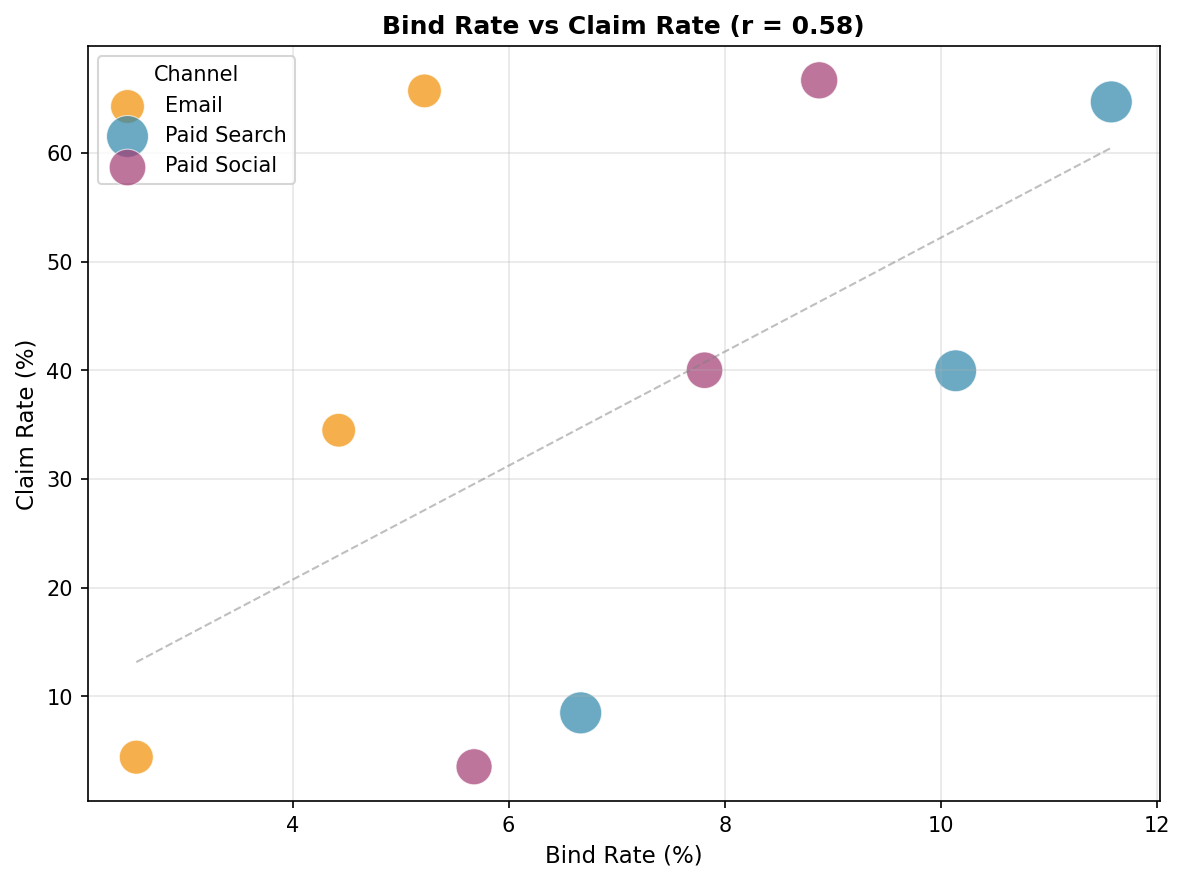
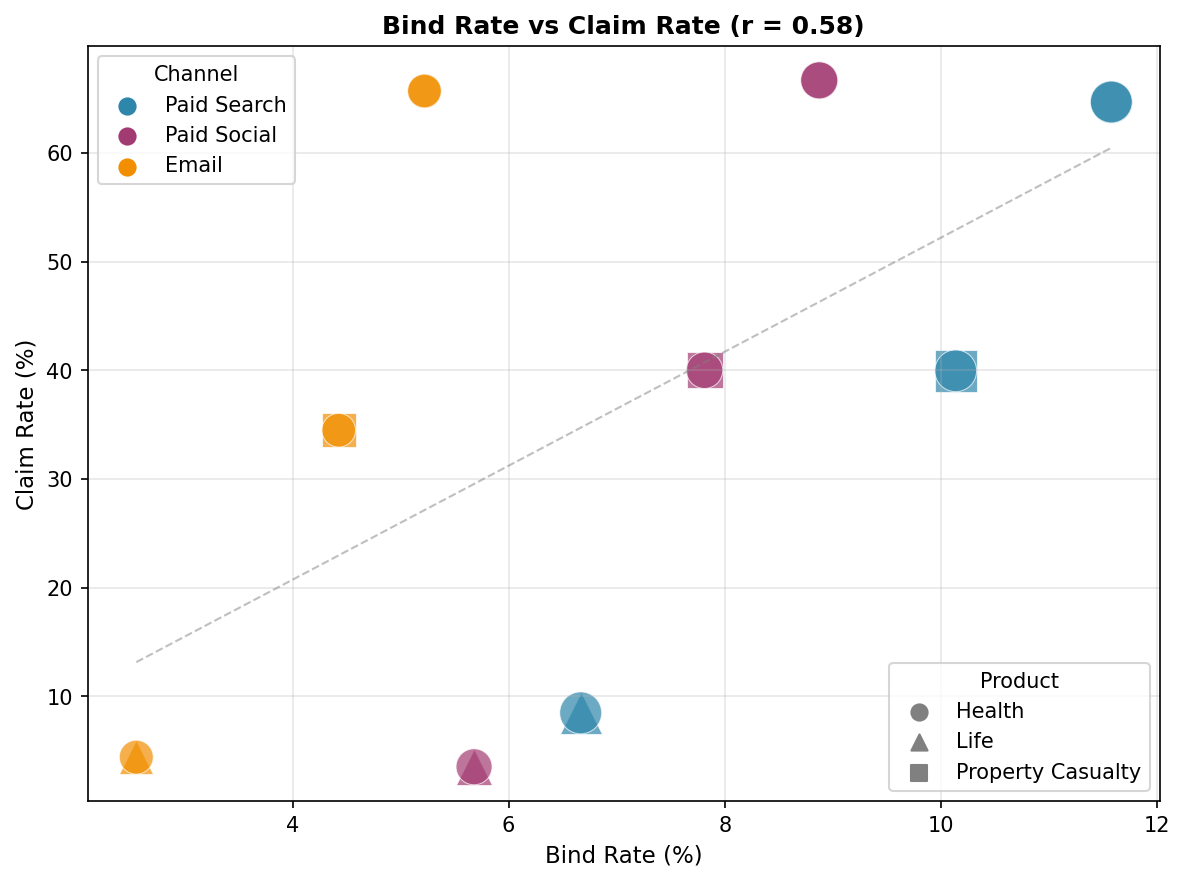
Corrected text, adjusted some charts

diff --git a/Insurance/EDA/insurance_eda.py b/Insurance/EDA/insurance_eda.py
@@ -279,35 +279,44 @@ def analysis_4_geographic(leads):
 # ANALYSIS 5: Adverse Selection (Early Claims by Channel)
 # =============================================================================
 
-def analysis_5_early_claims(leads):
+def analysis_5_early_claims(leads, search_spend, social_spend):
     """Adverse selection by marketing channel."""
     print("\n[5/8] Adverse Selection...")
     
     sold = leads[leads['sold_date'].notna()].copy()
     
+    # --- Compute CPL by channel (same logic as Analysis 6) ---
+    total_search_spend = search_spend['spend'].sum()
+    total_social_spend = social_spend['spend'].sum()
+    email_leads_count = len(leads[leads['channel'] == 'email']['lead_id'].unique())
+    total_email_spend = email_leads_count * 8.0
+
+    channel_spend = {
+        'paid_search': total_search_spend,
+        'paid_social': total_social_spend,
+        'email': total_email_spend
+    }
+    lead_counts = leads.groupby('channel')['lead_id'].nunique()
+    cpl = {ch: channel_spend[ch] / lead_counts[ch] for ch in channel_spend if ch in lead_counts}
+
     fig, axes = plt.subplots(1, 2, figsize=(12, 5))
-    
-    # Left: Early claim rate by channel
+
+    # Left: CPL by channel
     ax = axes[0]
-    channel_claims = sold.groupby('channel').agg(
-        policies=('lead_id', 'count'),
-        early_claims=('has_early_claim', 'sum')
-    )
-    channel_claims['early_claim_rate'] = channel_claims['early_claims'] / channel_claims['policies'] * 100
-    channel_claims = channel_claims.sort_values('early_claim_rate', ascending=True)
-    
-    colors = [CHANNEL_COLORS.get(ch, 'gray') for ch in channel_claims.index]
-    labels = [CHANNEL_LABELS.get(ch, ch) for ch in channel_claims.index]
-    
-    bars = ax.barh(labels, channel_claims['early_claim_rate'], color=colors, alpha=0.8)
-    for bar, val in zip(bars, channel_claims['early_claim_rate']):
-        ax.annotate(f'{val:.1f}%', xy=(bar.get_width(), bar.get_y() + bar.get_height()/2),
+    cpl_sorted = sorted(cpl.items(), key=lambda x: x[1])
+    ch_names = [CHANNEL_LABELS.get(ch, ch) for ch, _ in cpl_sorted]
+    ch_vals = [v for _, v in cpl_sorted]
+    ch_colors = [CHANNEL_COLORS.get(ch, 'gray') for ch, _ in cpl_sorted]
+
+    bars = ax.barh(ch_names, ch_vals, color=ch_colors, alpha=0.8)
+    for bar, val in zip(bars, ch_vals):
+        ax.annotate(f'${val:,.0f}', xy=(bar.get_width(), bar.get_y() + bar.get_height()/2),
                     xytext=(3, 0), textcoords='offset points', ha='left', va='center', fontsize=10)
-    ax.set_xlabel('Early Claim Rate (%)', fontsize=11)
-    ax.set_title('Year-1 Claim Rate by Channel', fontweight='bold')
+    ax.set_xlabel('Cost per Lead ($)', fontsize=11)
+    ax.set_title('Cost per Lead by Channel', fontweight='bold')
     ax.grid(True, alpha=0.3, axis='x')
-    
-    # Right: Loss ratio by channel
+
+    # Right: Loss ratio by channel (unchanged)
     ax = axes[1]
     channel_loss = sold.groupby('channel').agg(
         total_premium=('total_premium', 'sum'),
@@ -315,10 +324,10 @@ def analysis_5_early_claims(leads):
     )
     channel_loss['loss_ratio'] = channel_loss['total_claims'] / channel_loss['total_premium'] * 100
     channel_loss = channel_loss.sort_values('loss_ratio', ascending=True)
-    
+
     colors = [CHANNEL_COLORS.get(ch, 'gray') for ch in channel_loss.index]
     labels = [CHANNEL_LABELS.get(ch, ch) for ch in channel_loss.index]
-    
+
     bars = ax.barh(labels, channel_loss['loss_ratio'], color=colors, alpha=0.8)
     for bar, val in zip(bars, channel_loss['loss_ratio']):
         ax.annotate(f'{val:.1f}%', xy=(bar.get_width(), bar.get_y() + bar.get_height()/2),
@@ -326,12 +335,11 @@ def analysis_5_early_claims(leads):
     ax.set_xlabel('Loss Ratio (%)', fontsize=11)
     ax.set_title('Loss Ratio by Channel', fontweight='bold')
     ax.grid(True, alpha=0.3, axis='x')
-    
+
     plt.tight_layout()
     plt.savefig(OUTPUT_DIR / 'EDA_early_claims.png', dpi=150, bbox_inches='tight')
     plt.close()
     print("  ✓ Saved EDA_early_claims.png")
-
 
 # =============================================================================
 # ANALYSIS 6: Marketing ROI by Channel
@@ -503,7 +511,25 @@ def analysis_8_bind_vs_claims(leads):
     combos['bind_rate'] = combos['sold'] / combos['total']
     
     fig, ax = plt.subplots(figsize=(8, 6))
-    
+    PRODUCT_MARKERS = {'Health': 'o', 'Life': '^', 'Property_Casualty': 's'}
+    for ch in combos['channel'].unique():
+        for prod in combos['product'].unique():
+            mask = (combos['channel'] == ch) & (combos['product'] == prod)
+            if mask.sum() == 0:
+                continue
+            ax.scatter(
+                combos.loc[mask, 'bind_rate'] * 100,
+                combos.loc[mask, 'claim_rate'] * 100,
+                c=CHANNEL_COLORS.get(ch, 'gray'),
+                marker=PRODUCT_MARKERS.get(prod, 'o'),
+                s=combos.loc[mask, 'total'] / 10,
+                alpha=0.7,
+                label=f'{CHANNEL_LABELS.get(ch, ch)} – {prod}',
+                edgecolors='white',
+                linewidths=0.5
+            )
+
+
     for ch in combos['channel'].unique():
         mask = combos['channel'] == ch
         ax.scatter(
@@ -531,7 +557,19 @@ def analysis_8_bind_vs_claims(leads):
     ax.set_xlabel('Bind Rate (%)', fontsize=11)
     ax.set_ylabel('Claim Rate (%)', fontsize=11)
     ax.set_title(f'Bind Rate vs Claim Rate (r = {corr:.2f})', fontsize=12, fontweight='bold')
-    ax.legend(title='Channel')
+    # Channel legend (color)
+    channel_handles = [
+        plt.scatter([], [], c=CHANNEL_COLORS[ch], s=60, label=CHANNEL_LABELS[ch])
+        for ch in CHANNEL_COLORS
+    ]
+    # Product legend (shape)
+    product_handles = [
+        plt.scatter([], [], c='gray', marker=PRODUCT_MARKERS[prod], s=60, label=prod.replace('_', ' '))
+        for prod in PRODUCT_MARKERS
+    ]
+    legend1 = ax.legend(handles=channel_handles, title='Channel', loc='upper left')
+    ax.add_artist(legend1)
+    ax.legend(handles=product_handles, title='Product', loc='lower right')
     ax.grid(True, alpha=0.3)
     
     plt.tight_layout()
@@ -556,7 +594,7 @@ def run_all_analyses():
     analysis_2_age_bands(leads)
     analysis_3_cross_sell(leads)
     analysis_4_geographic(leads)
-    analysis_5_early_claims(leads)
+    analysis_5_early_claims(leads, search_spend, social_spend)
     analysis_6_policy_profitability(leads, search_spend, social_spend)
     analysis_7_state_claims(leads)
     analysis_8_bind_vs_claims(leads)

diff --git a/Insurance/EDA/insurance_exploratory-analysis.md b/Insurance/EDA/insurance_exploratory-analysis.md
@@ -45,8 +45,8 @@ Credit-based insurance scores are a major underwriting tool. This analysis valid
 Age is the primary rating variable in life and health insurance. The optimal customer age differs by product line.
 
 **Key Finding:** 
-- Life insurance LTV peaks at ages 36-45
-- Health and P&C show different age patterns
+- Life, Health and P&C insurance LTV peak at ages 36-55
+- Conversion Rates show different age patterns across products
 - Targeting should be product-specific
 
 **Implication:** One-size-fits-all age targeting leaves value on the table.
@@ -72,9 +72,9 @@ Age is the primary rating variable in life and health insurance. The optimal cus
 
 Bundled customers have 90%+ retention vs ~80% for single-product. This analysis quantifies the cross-sell opportunity.
 
-**Key Finding:** Multi-product leads convert 2x better and deliver 2x higher lifetime value.
+**Key Finding:** Multi-product leads convert 2x better and deliver similar lifetime value.
 
-**Implication:** Invest in cross-sell programs; the economics strongly favor bundling.
+**Implication:** Invest in cross-sell programs. Conversion rates strongly favor bundling.
 
 </td>
 <td width="50%" valign="top">
@@ -97,9 +97,9 @@ Bundled customers have 90%+ retention vs ~80% for single-product. This analysis 
 
 Insurance is state-regulated—each state has different rate approval processes, coverage mandates, and competitive dynamics.
 
-**Key Finding:** Loss ratios vary significantly by state, from under 50% to over 70%.
+**Key Finding:** Loss ratios vary significantly by state, from under 40% to over 100%!
 
-**Implication:** Geographic risk pricing and targeted underwriting are essential.
+**Implication:** Geographic risk pricing and targeted underwriting are essential. Very high states should be address immediately.
 
 </td>
 <td width="50%" valign="top">
@@ -122,7 +122,7 @@ Insurance is state-regulated—each state has different rate approval processes,
 
 Cheaper acquisition channels attract higher-risk customers. This analysis quantifies the adverse selection effect.
 
-**Key Finding:** Email channel (lowest CPL) has 17% higher early claim rates than paid search.
+**Key Finding:** Email channel (lowest CPL) has higher loss rates than either paid search or paid social.
 
 **Implication:** Channel-level risk adjustment may be needed in pricing.
 
@@ -147,7 +147,7 @@ Cheaper acquisition channels attract higher-risk customers. This analysis quanti
 
 What matters for budget allocation is **profit per marketing dollar**, not profit per policy. A channel with lower profit per policy can still be better if acquisition costs are low enough.
 
-**Key Finding:** Email has the highest ROI (10.7x) despite lower profit per policy, because acquisition cost is dramatically lower.
+**Key Finding:** Email has the highest ROI despite lower profit per policy, because acquisition cost is dramatically lower.
 
 **Implication:** Shift budget toward email to maximize total profit.
 
@@ -218,13 +218,13 @@ Do higher-converting channels produce riskier policies? This tests the quality-q
 
 | Analysis | Key Finding | Action |
 |----------|-------------|--------|
-| Credit Score | 3x conversion, 20pt lower loss ratio for Excellent | Prioritize high-credit leads |
-| Age Bands | LTV varies 2x by age within product | Product-specific targeting |
-| Cross-Sell | 2x conversion, 2x LTV for multi-product | Invest in bundling |
-| Geographic | 20+ pt loss ratio variation by state | State-level rate adequacy |
-| Adverse Selection | 17% higher early claims for cheap channels | Channel risk adjustment |
-| Channel ROI | Email 10.7x vs Search 5.7x | Shift budget to email |
-| State Claims | 5 high-risk states identified | Underwriting review |
+| Credit Score | Higher conversion, lower loss ratio for Excellent | Prioritize high-credit leads |
+| Age Bands | Conversion varies by age within product | Product-specific targeting |
+| Cross-Sell | Higher conversion for multi-product | Invest in bundling |
+| Geographic | Huge loss ratio variation by state | State-level rate adequacy |
+| Adverse Selection | higher early claims for cheap channels | Channel risk adjustment |
+| Channel ROI | Email 2-3x ROI vs Search and Social | Shift budget to email |
+| State Claims | High-risk states identified | Underwriting review |
 | Bind vs Claims | r=0.43 correlation | Balance volume vs quality |
 
 ---
